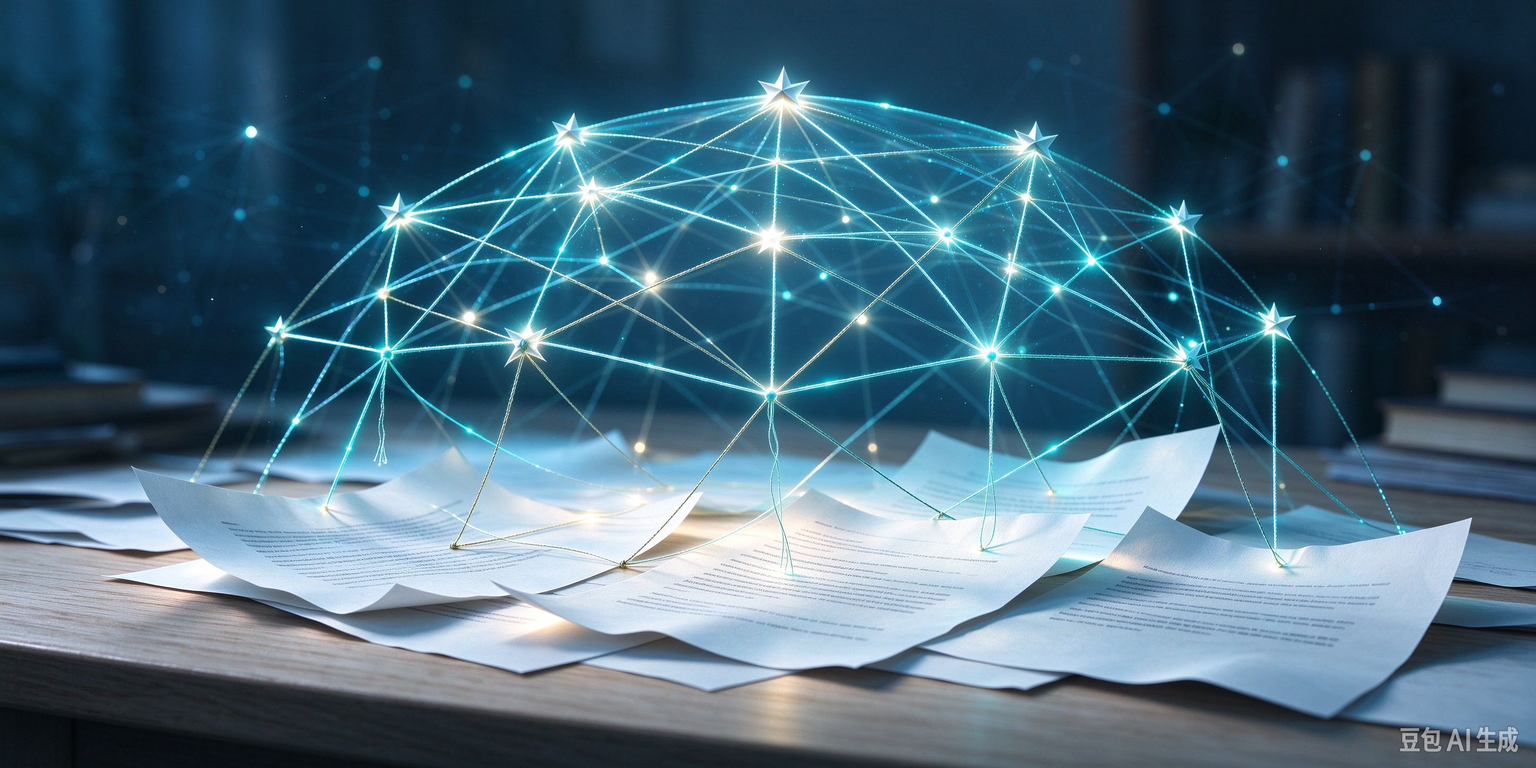
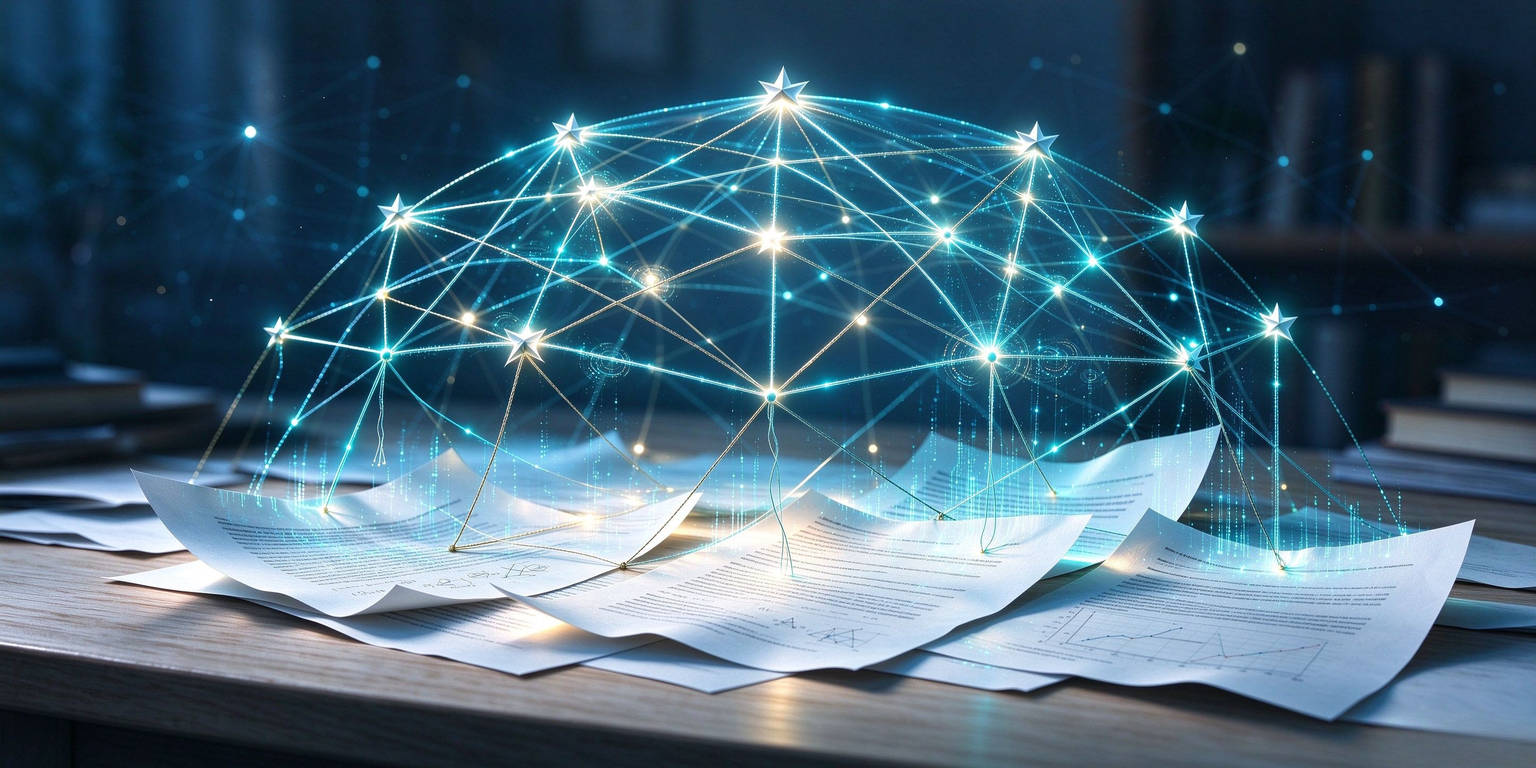
docs: clarify note updates and replace hero

diff --git a/tests/test_readme_examples.py b/tests/test_readme_examples.py
@@ -105,7 +105,7 @@ class ReadmeExamplesTests(unittest.TestCase):
         self.assertIn("TODO: Add a real before-and-after example", readme)
         self.assertTrue((ROOT / "assets" / "research-weaver-hero.jpeg").is_file())
 
-    def test_why_section_explains_note_architecture_and_incremental_growth(self):
+    def test_why_section_explains_note_architecture_and_update_steps(self):
         readme = (ROOT / "README.md").read_text(encoding="utf-8")
         why = readme.split("## Why Research Weaver", 1)[1].split("## 示例", 1)[0]
 
@@ -117,14 +117,17 @@ class ReadmeExamplesTests(unittest.TestCase):
             "批判性阅读",
             "研究连接",
             "引用",
-            "稳定核心",
-            "生长层",
         ):
             self.assertIn(concept, why)
 
         self.assertIn("references/note-architecture.md", why)
         self.assertIn("references/library-weaving.md", why)
-        self.assertIn("不会在后台自动重写", why)
+        self.assertIn("不会自动更新", why)
+        self.assertIn("首次只配置一次", why)
+        self.assertIn("以后不需要重复配置", why)
+        self.assertIn("你需要做什么", why)
+        self.assertIn("什么时候需要重新配置", why)
+        self.assertIn("$research-weaver 更新", why)
 
     def test_readme_credits_verified_inspirations_and_ecosystem(self):
         readme = (ROOT / "README.md").read_text(encoding="utf-8")
